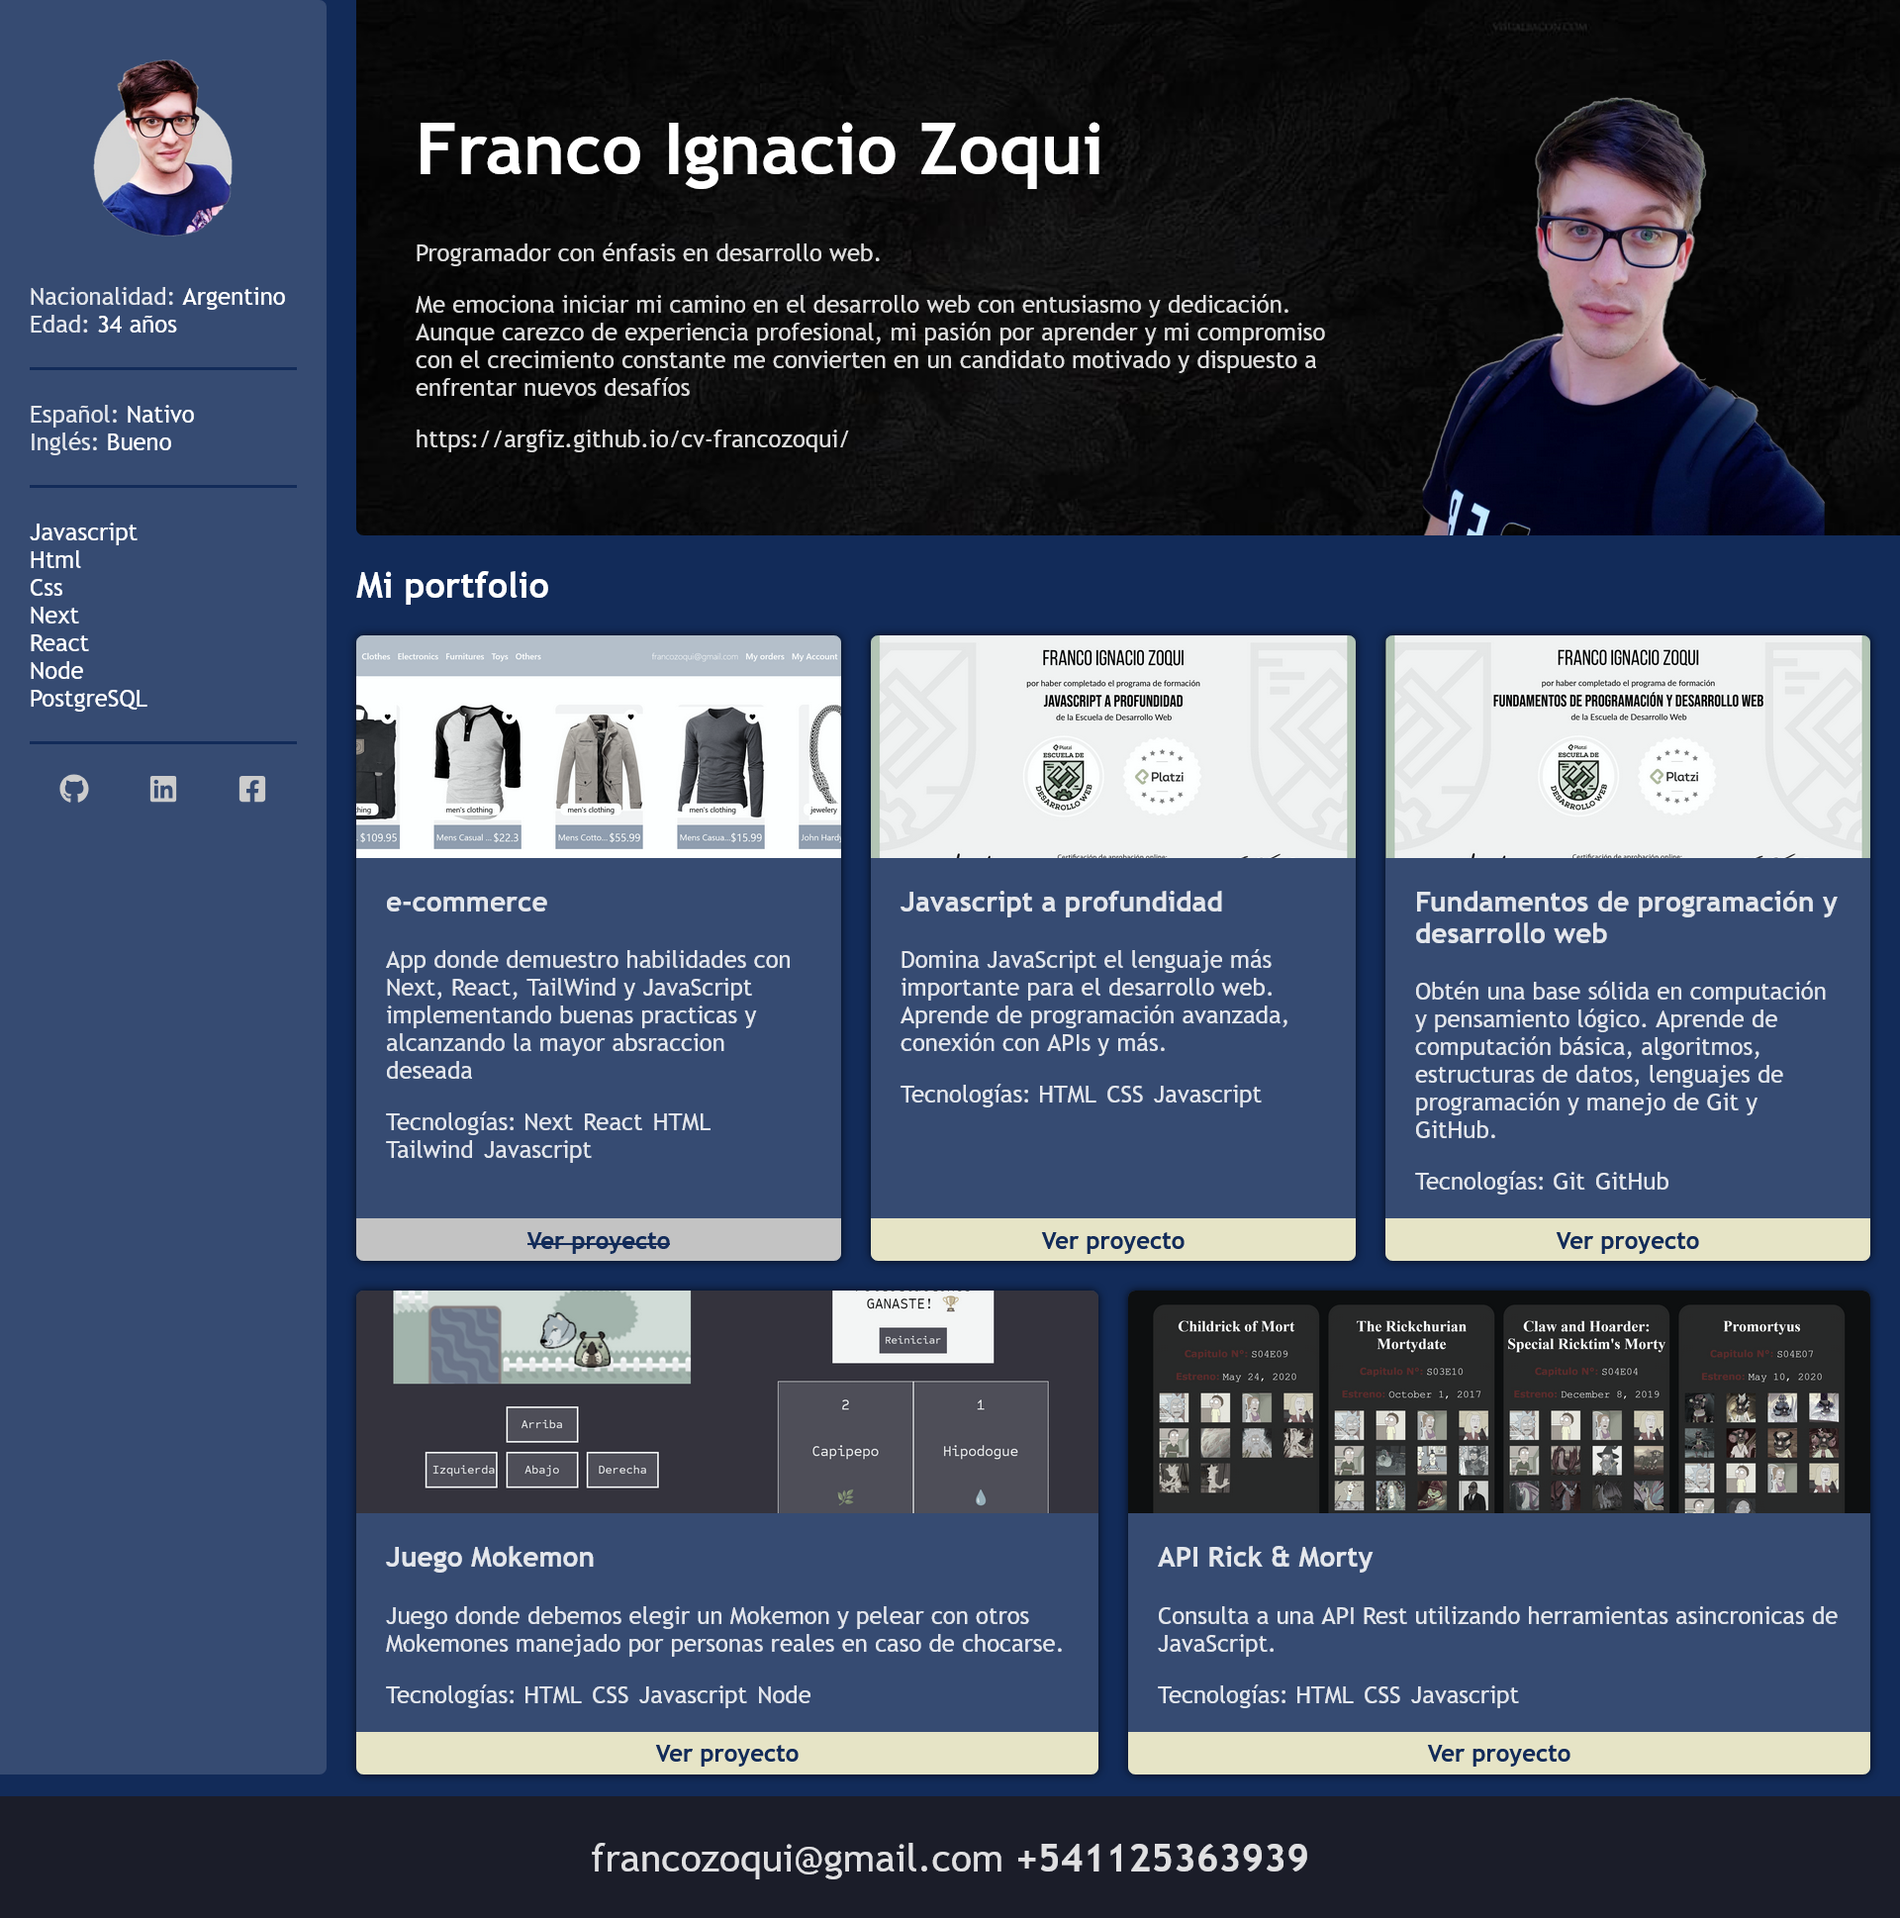
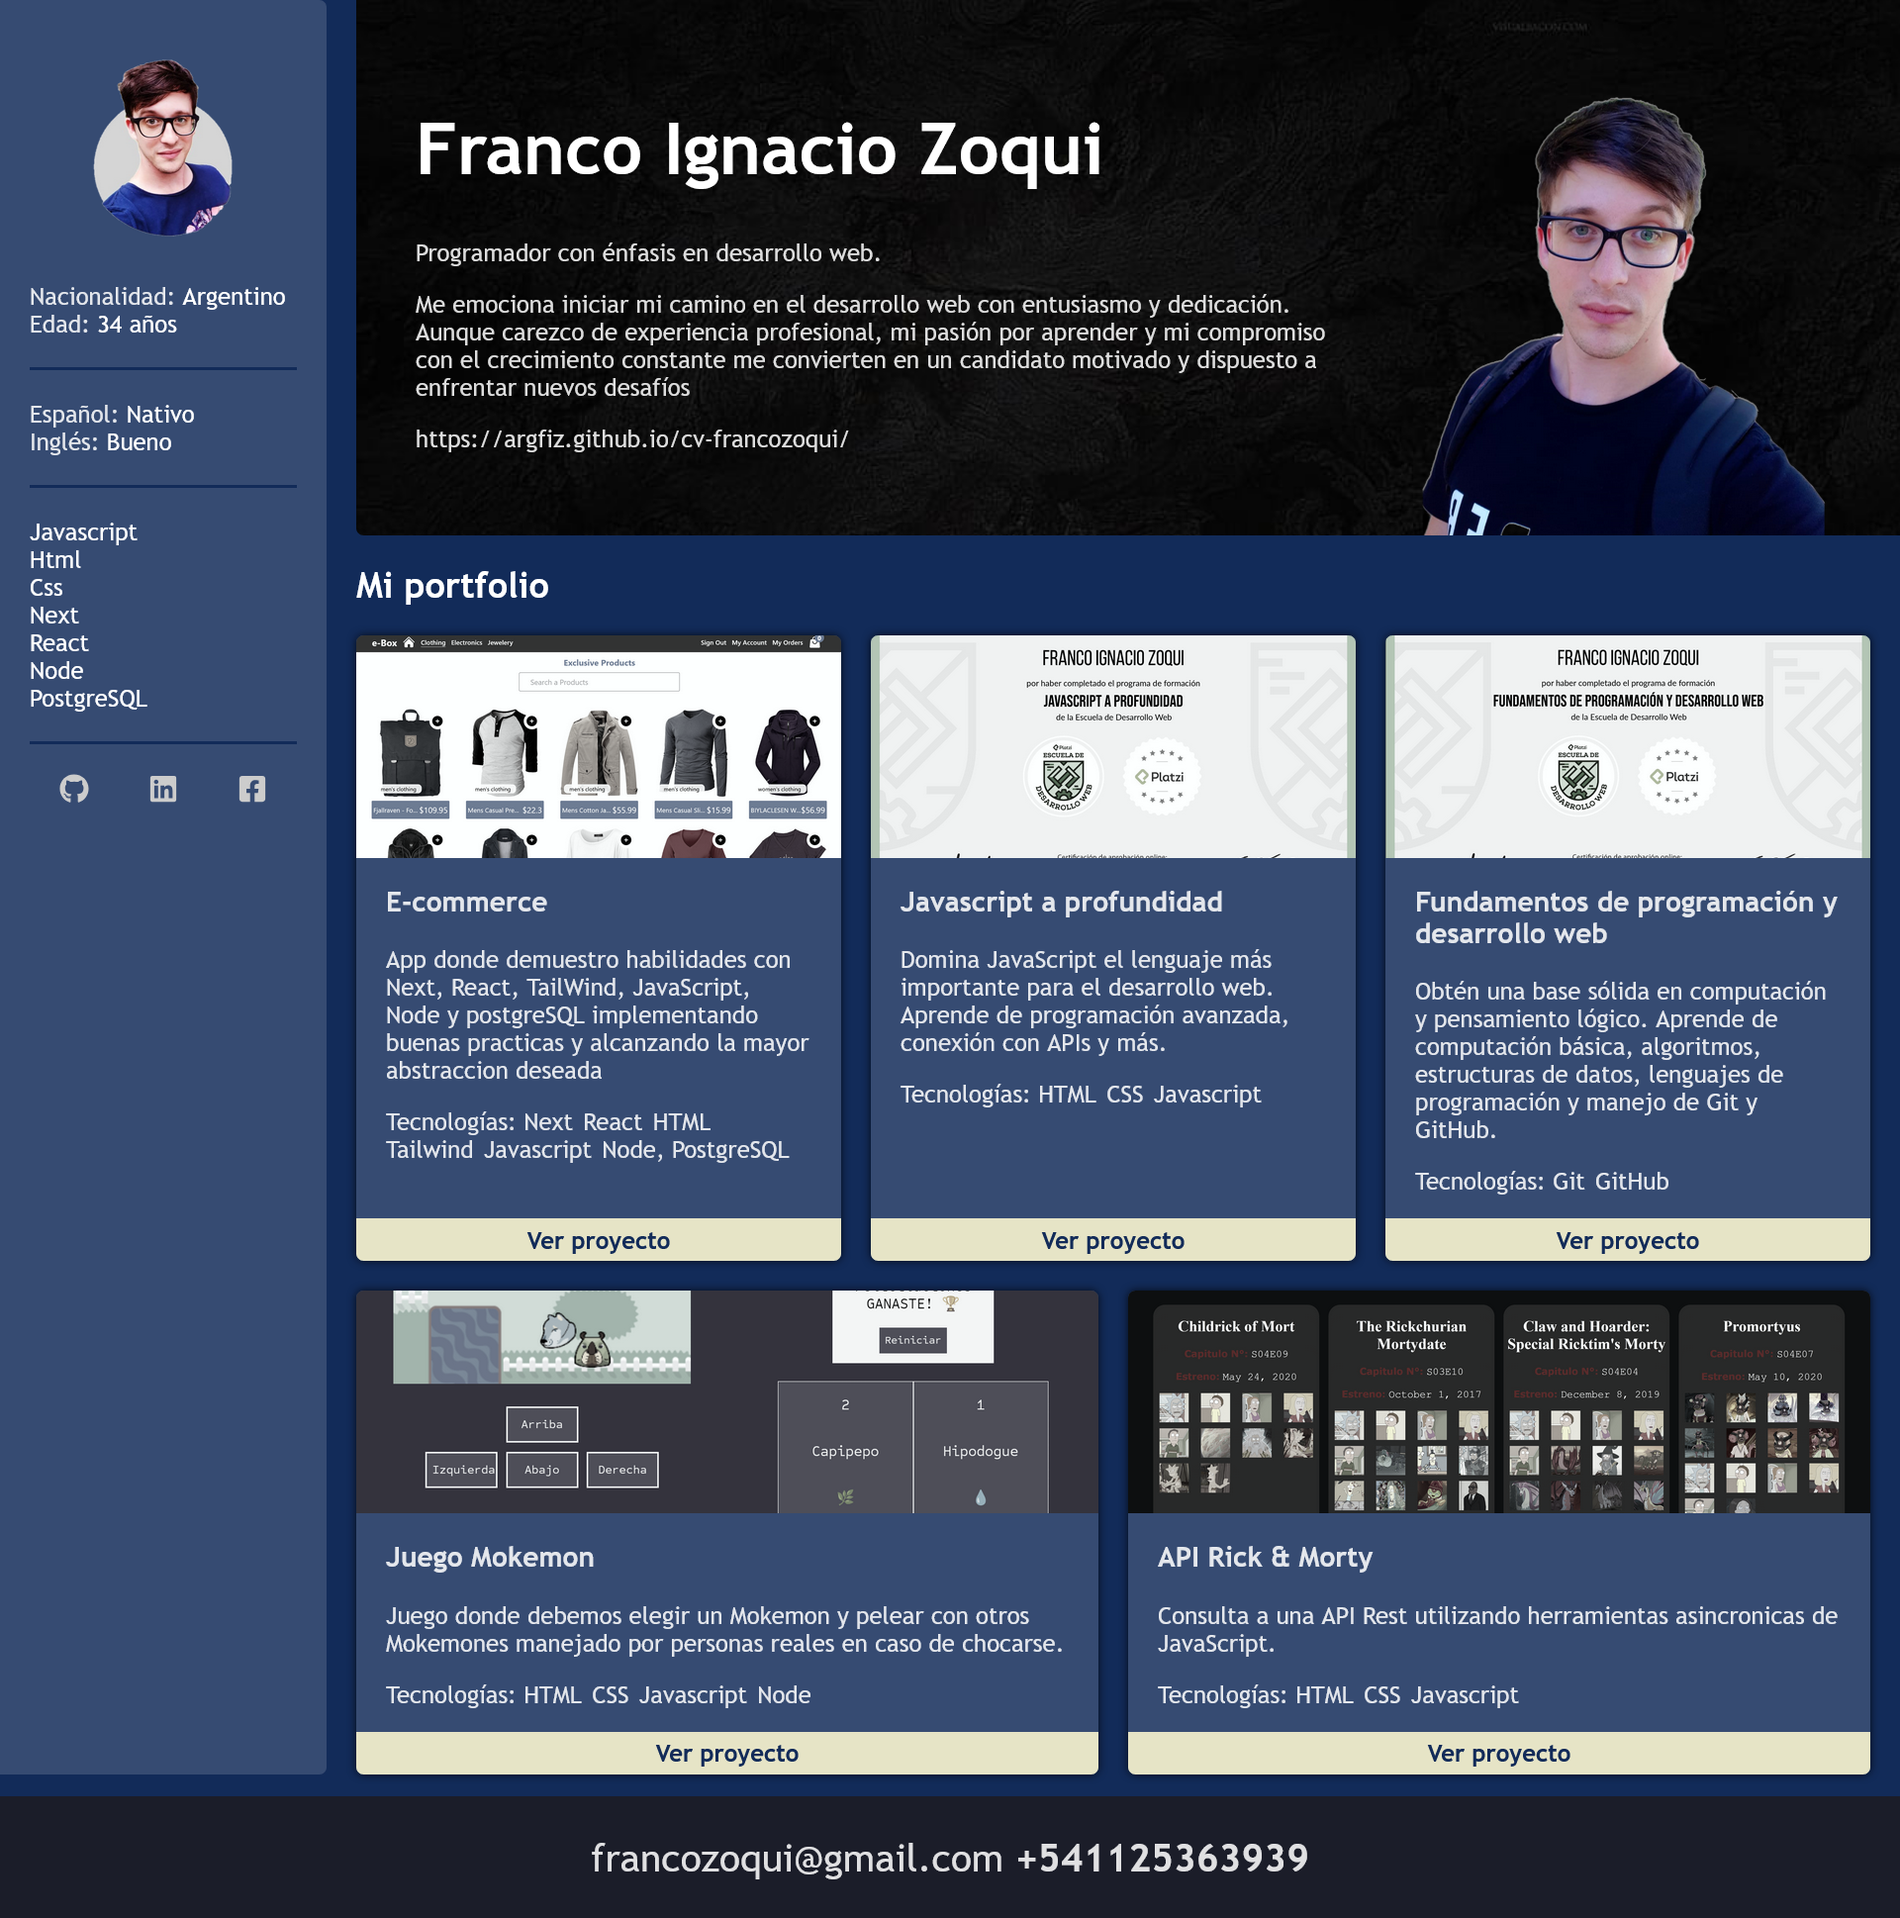
Update Readme

Changed region(s): [[0.1875, 0.3096, 0.4375, 0.4644], [0.1875, 0.5882, 0.4375, 0.6811], [0.1875, 0.4954, 0.4062, 0.5573]]

diff --git a/README.md b/README.md
@@ -1,3 +1,20 @@
 # CV-FrancoZoqui
 
 ![Preview CV Franco Zoqui](./img/cv-preview.png)
+
+## Habilidades
+
+- **Lenguajes de programación**: JavaScript, SQL
+- **Frontend**: React, HTML, CSS
+- **Backend**: Node.js, Express
+- **Base de datos**: PostgreSQL, Sequelize
+- **Herramientas y tecnologías**: Docker, Git, GitHub
+
+## Experiencia
+
+### Full Stack Developer
+**Proyecto e-commerce-my-store** | Enero 2024 - Presente
+- Desarrollo de una aplicación de e-commerce utilizando Next y React para el frontend y Node.js con Express para el backend.
+- Implementación de filtrado de productos por título y categoría.
+- Gestión de base de datos PostgreSQL con Sequelize y Docker.
+- Uso de principios de programación orientada a objetos (OOP).
